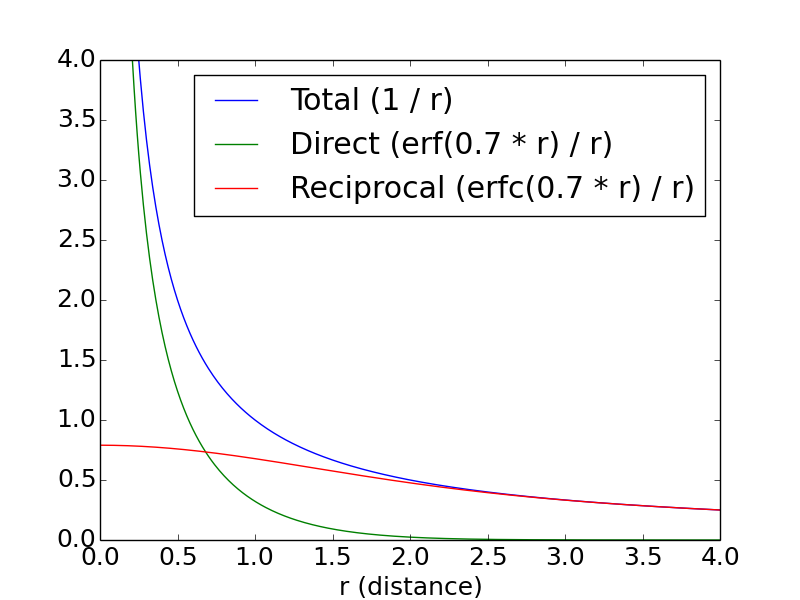
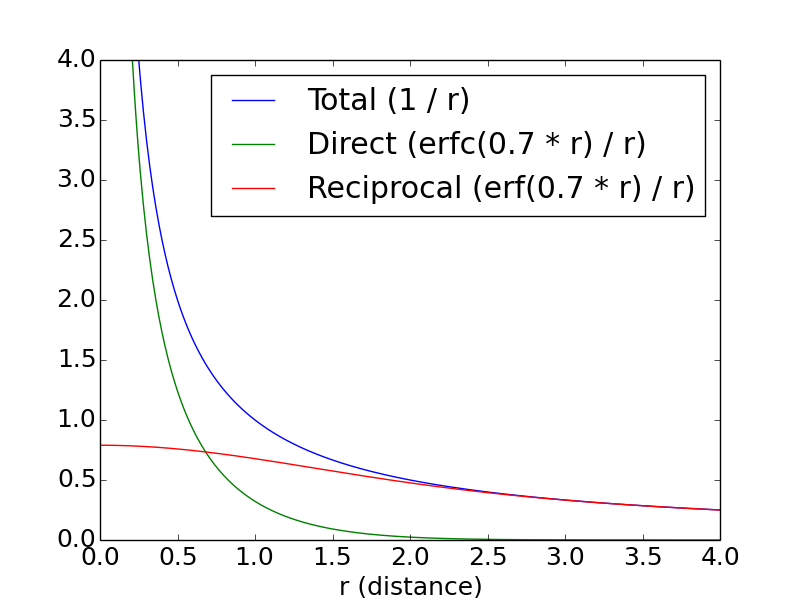
.

Changed region(s): [[0.3125, 0.12, 0.875, 0.33], [0.2188, 0.12, 0.2812, 0.36], [0.3125, 0.15, 0.3438, 0.18]]

diff --git a/data/thesis/presentation.tex b/data/thesis/presentation.tex
@@ -37,15 +37,15 @@
 \section{Introduction}
 \begin{frame}{Molecular dynamics simulations' performance}
 \begin{itemize}
-\item modelling large organic molecules (hundreds of thousands atoms)
+\item typical use case: modelling large organic molecules (hundreds of thousands atoms)
 \item scaling performance is important (time steps of $10^{-15}$ seconds, processes of $10^{-6}$ -- $10^{-3}$ seconds) 
-\item the computational balance shifting towards GPU/accelerator hardware (single core speed limited $\implies$ increasing number of cores instead)
-\item most computational time taken by electrostatic interactions
-\item PME (particle mesh Ewald) used for computing long-range component of electrostatics
+\item the shift towards using GPU/accelerator highly-parallel hardware (a speed of single core stagnates $\implies$ increasing number of cores)
+\item most computational time in MD taken by electrostatic interactions
+\item PME (particle mesh Ewald) used for computing a certain component of electrostatic interactions
 \end{itemize}
 \end{frame}
 
-\begin{frame}{GROMACS}
+\begin{frame}{Project background}
 \begin{itemize}
 \item open source MD software GROMACS 5.1
 \item direct non-bonded particle pair interactions computed either on CPU or GPU (CUDA/OpenCL) 
@@ -53,7 +53,6 @@
 \item potential benefits of PME on GPU:
 \begin{itemize}
 \item more performance
-\item more flexibility 
 \item most computation can be offloaded onto GPUs
 \item avoiding CPU bottleneck on machines with lots of GPU power  
 \end{itemize}
@@ -78,8 +77,8 @@
 \begin{frame}{Ewald summation}
 \begin{itemize}
 
-\item the dependency on $\bold{r}$ is $\frac{1}{\lvert \bold{r}\rvert }$ -- no convergence, no cut-off
-\item Ewald sum: decomposition into direct and reciprocal space components, based on Gaussian error function
+\item the dependency of $E$ on $\bold{r}$ is $\frac{1}{\lvert \bold{r}\rvert }$ -- no convergence, no cut-off
+\item Ewald summation: decomposition into direct and reciprocal space components, based on Gaussian error function
 \item the direct space component converges within a certain cut-off
 \item the reciprocal component converges in the Fourier space
 \end{itemize}
@@ -156,6 +155,7 @@ E_{rec}=\frac{1}{2\pi V}\sum\limits_{\bold{m} \in \{\mathbb{Z}^3 \setminus {0}\}
 
 \section{Implementation}
 
+\iffalse
 \begin{frame}{MD time step in GROMACS}
 \begin{figure}
     \centering
@@ -166,6 +166,7 @@ E_{rec}=\frac{1}{2\pi V}\sum\limits_{\bold{m} \in \{\mathbb{Z}^3 \setminus {0}\}
 \FloatBarrier
 \end{frame}
 
+
 \begin{frame}{MD time step in GROMACS, modified for PME GPU}
 \begin{figure}
     \centering
@@ -174,6 +175,7 @@ E_{rec}=\frac{1}{2\pi V}\sum\limits_{\bold{m} \in \{\mathbb{Z}^3 \setminus {0}\}
 \end{figure}
 \FloatBarrier
 \end{frame}
+\fi %uncomment
 
 \begin{frame}{Calculating the spline parameters}
 \begin{itemize}
@@ -199,9 +201,9 @@ addition operations
 \begin{frame}{3D FFT}
 \begin{itemize}
 \item happens twice (real-to-complex before solving, complex-to-real after solving)
-\item implemented as a call to CUDA cuFFT library
+\item implemented as a simple call to CUDA cuFFT library
 \item with multiple PME processes requires all-to-all communication of the decomposed grid
-\item for this reason an option of using the existing CPU code (MPI + calls to FFTW library) exists
+\item for this reason an option of using the existing CPU FFT code (MPI + calls to FFTW library) exists
 % overlap
 \end{itemize}
 \end{frame}
@@ -231,16 +233,12 @@ addition operations
 % why is this here
 \begin{frame}{Results}
 \begin{itemize}
-\item implemented for a single GPU
+\item PME implemented in CUDA for a single GPU
 \item CPU PME used as reference for reciprocal and conserved energy values to ensure correctness
 \item supports FFT both on GPU and CPU (should help with future multi-GPU parallelization) 
 \item only interpolation order of 4 has been tried
-%\item works in a single PME/PP process
-%\item or as a single PME process with several PP ranks
-%\item load balancing works
+\item also supports separate PEM rank, PME grid size tuning, dynamic load balancing
 % more about decomposition
-% more about tuning
-% references?
 \end{itemize}
 \end{frame}
 
@@ -297,7 +295,7 @@ addition operations
 \item should also be easily extensible for interpolation orders other than 4
 (higher orders $\implies$ coarser grid $\implies$ less communication)
 \item supports a separate PME process with direct space decomposed over multiple PP processes, already viable for a machine with several NVIDIA GPUs 
-\item will be integrated into GROMACS in a couple of months
+\item hopefully integrated into GROMACS in a few months
 \end{itemize}
 \end{frame}
 

diff --git a/data/thesis/cutoff.py b/data/thesis/cutoff.py
@@ -5,7 +5,7 @@ import math
 # Compute the x and y coordinates for points on a sine curve
 x = np.arange(0.01, 5, 0.01)
 y = 1 / x
-beta = 2
+beta = 0.7
 ydir = [math.erfc(beta * i) / i for i in x]
 yrec = [math.erf(beta * i) / i for i in x]
 
